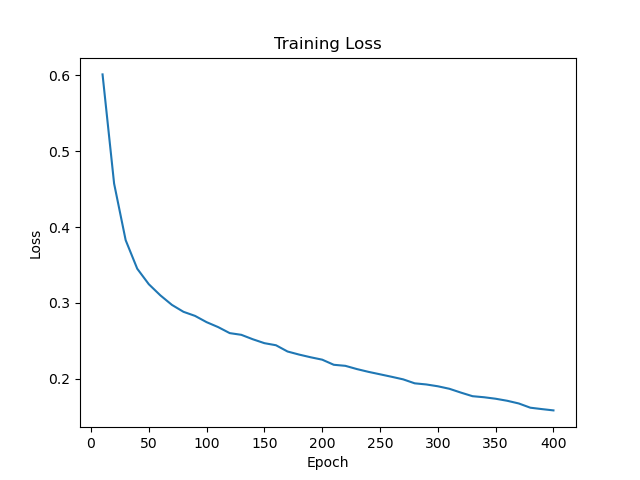
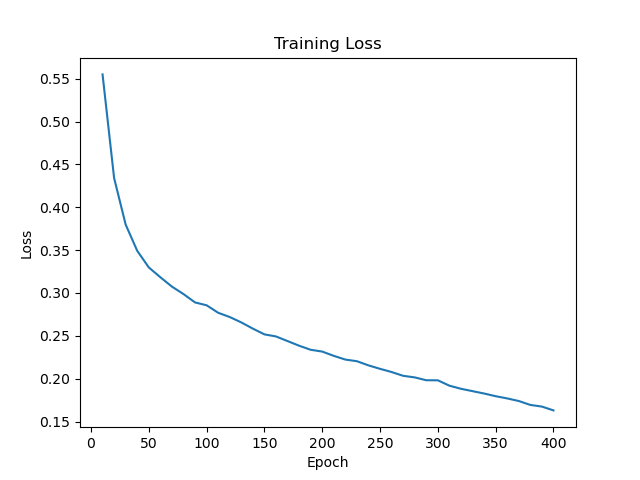
fixed critical issues

diff --git a/code_skeleton_m2/code_skeleton_m2/hyper_parameter_mlp_clasification.py b/code_skeleton_m2/code_skeleton_m2/hyper_parameter_mlp_clasification.py
@@ -13,18 +13,24 @@ feature_data = np.load("Data/features.npz", allow_pickle=True)
 train_features = feature_data['xtrain']
 train_labels_classif = feature_data['ytrainclassif']
 
-means = np.mean(train_features, axis=0)
-stds = np.std(train_features, axis=0)
-train_features = normalize_fn(train_features, means, stds)
+perm = np.random.permutation(train_features.shape[0])
+train_features = train_features[perm]
+train_labels_classif = train_labels_classif[perm]
 
 val_size = int(0.2 * train_features.shape[0])
-x_tr = train_features[val_size:]
-x_val = train_features[:val_size]
+x_tr_raw = train_features[val_size:]
+x_val_raw = train_features[:val_size]
+
+means = np.mean(x_tr_raw, axis=0)
+stds = np.std(x_tr_raw, axis=0)
+
+x_tr = normalize_fn(x_tr_raw, means, stds)
+x_val = normalize_fn(x_val_raw, means, stds)
 y_tr = label_to_onehot(train_labels_classif[val_size:], C=3)
 y_val = label_to_onehot(train_labels_classif[:val_size], C=3)
 true_val = train_labels_classif[:val_size]
 
-counts = np.bincount(train_labels_classif.astype(int))
+counts = np.bincount(train_labels_classif[val_size:].astype(int))
 class_weights = 1.0 / np.sqrt(counts)
 class_weights = class_weights / class_weights.sum()
 

diff --git a/code_skeleton_m2/code_skeleton_m2/hyper_parameter_mlp_regression.py b/code_skeleton_m2/code_skeleton_m2/hyper_parameter_mlp_regression.py
@@ -12,13 +12,19 @@ feature_data = np.load("Data/features.npz", allow_pickle=True)
 train_features   = feature_data['xtrain']
 train_labels_reg = feature_data['ytrainreg']
 
-means = np.mean(train_features, axis=0)
-stds  = np.std(train_features, axis=0)
-train_features = normalize_fn(train_features, means, stds)
+perm = np.random.permutation(train_features.shape[0])
+train_features = train_features[perm]
+train_labels_reg = train_labels_reg[perm]
 
 val_size = int(0.2 * train_features.shape[0])
-x_tr  = train_features[val_size:]
-x_val = train_features[:val_size]
+x_tr_raw  = train_features[val_size:]
+x_val_raw = train_features[:val_size]
+
+means = np.mean(x_tr_raw, axis=0)
+stds  = np.std(x_tr_raw, axis=0)
+
+x_tr  = normalize_fn(x_tr_raw, means, stds)
+x_val = normalize_fn(x_val_raw, means, stds)
 
 y_mean   = train_labels_reg[val_size:].mean()
 y_std    = train_labels_reg[val_size:].std()

diff --git a/code_skeleton_m2/code_skeleton_m2/main.py b/code_skeleton_m2/code_skeleton_m2/main.py
@@ -38,6 +38,11 @@ def main(args):
     )
 
     if not args.test:
+        perm = np.random.permutation(train_features.shape[0])
+        train_features = train_features[perm]
+        train_labels_classif = train_labels_classif[perm]
+        train_labels_reg = train_labels_reg[perm]
+
         val_size = int(0.2 * train_features.shape[0])
         x_tr_raw = train_features[val_size:]
         x_val_raw = train_features[:val_size]

diff --git a/code_skeleton_m2/code_skeleton_m2/src/methods/kmeans.py b/code_skeleton_m2/code_skeleton_m2/src/methods/kmeans.py
@@ -50,7 +50,8 @@ class KMeans(object):
         ### WRITE YOUR CODE HERE
         N = data.shape[0]
         if self.K > N:
-            raise ValueError(f"K cannot be larger than the number of data points. It was {self.K} but there are only {N} data points.")
+            raise ValueError(f"K cannot be larger than the number of data points. "
+                             f"It was {self.K} but there are only {N} data points.")
             # print(f"K was clamped to the number of data points. It was {self.K} but there are only {N} data points.")
             # self.K = N
         